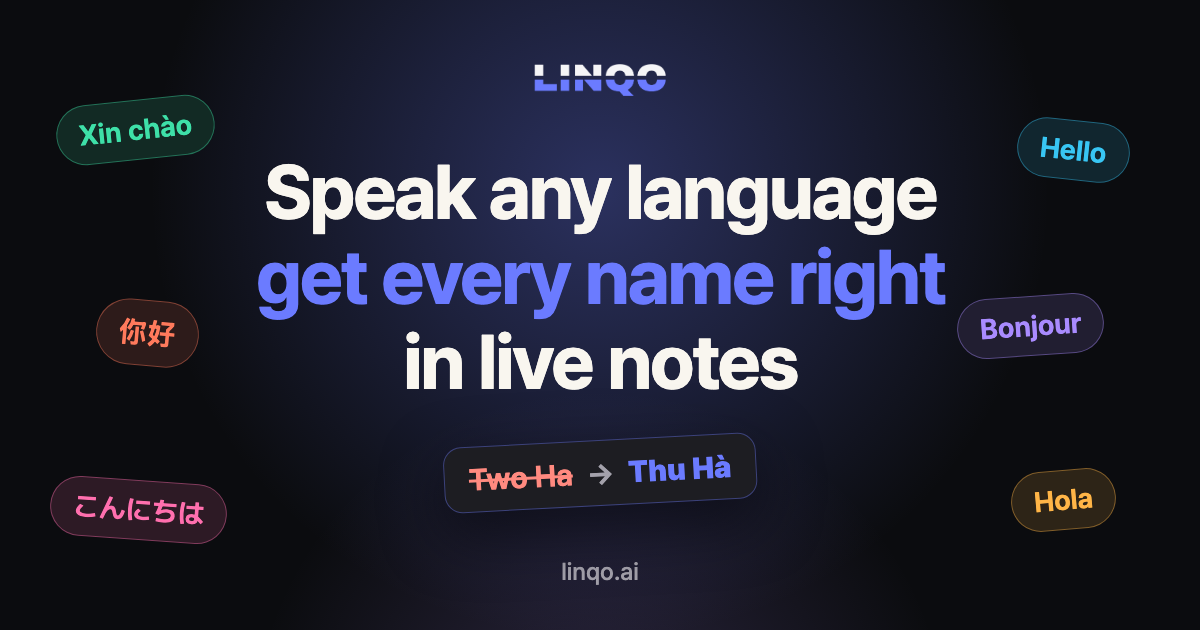
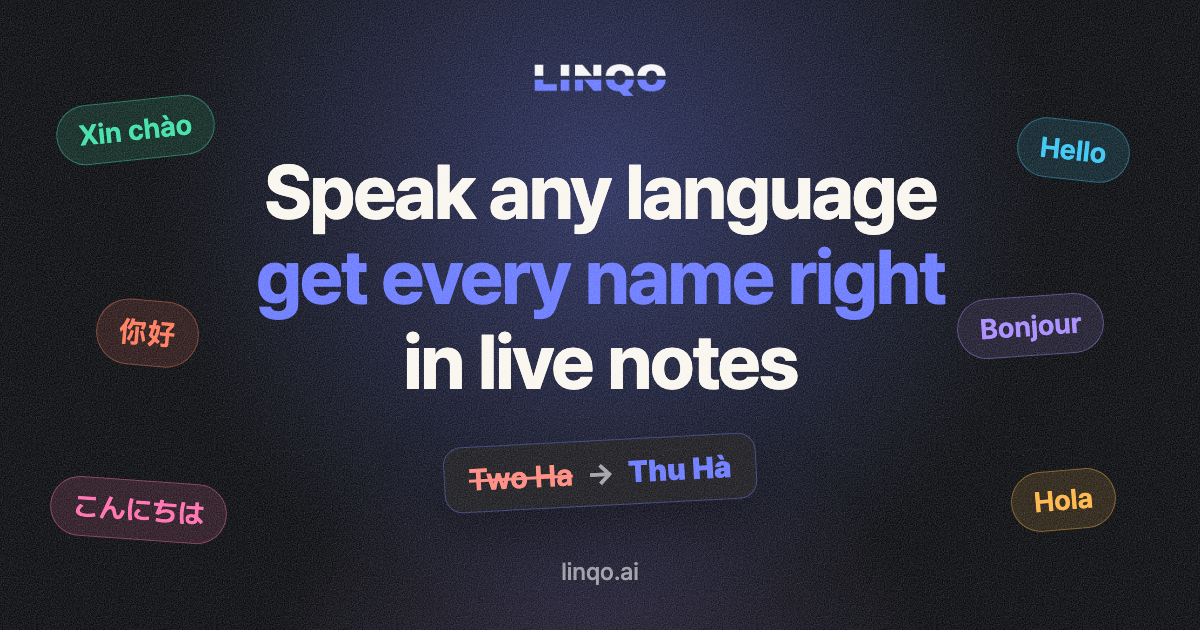
feat: add grain to OG images and version their URLs

diff --git a/public/lab/hero-v3-kinetic.html b/public/lab/hero-v3-kinetic.html
@@ -11,7 +11,7 @@
 <meta property="og:title" content="Linqo · 이름까지 정확한 실시간 통역 노트">
 <meta property="og:description" content="어떤 언어가 섞여도 내 언어로 실시간 번역해요 참석자 이름과 전문용어를 미리 알려 주면 처음 듣는 단어도 정확하게요">
 <meta property="og:url" content="https://wooxxg.github.io/linqo/lab/hero-v3-kinetic.html">
-<meta property="og:image" content="https://wooxxg.github.io/linqo/lab/og-ko.png">
+<meta property="og:image" content="https://wooxxg.github.io/linqo/lab/og-ko.png?v=3">
 <meta property="og:image:width" content="1200">
 <meta property="og:image:height" content="630">
 <meta property="og:image:alt" content="어떤 언어로 말해도 이름까지 정확한 실시간 통역 노트">

diff --git a/public/lab/hero-v3-kinetic-en.html b/public/lab/hero-v3-kinetic-en.html
@@ -11,7 +11,7 @@
 <meta property="og:title" content="Linqo · Live notes that get every name right">
 <meta property="og:description" content="Mixed languages translated live into yours with every name and term right">
 <meta property="og:url" content="https://wooxxg.github.io/linqo/lab/hero-v3-kinetic-en.html">
-<meta property="og:image" content="https://wooxxg.github.io/linqo/lab/og-en.png">
+<meta property="og:image" content="https://wooxxg.github.io/linqo/lab/og-en.png?v=3">
 <meta property="og:image:width" content="1200">
 <meta property="og:image:height" content="630">
 <meta property="og:image:alt" content="Speak any language and get every name right in live notes">

diff --git a/scripts/lab-ko-to-en.py b/scripts/lab-ko-to-en.py
@@ -20,7 +20,7 @@ R = [
 ('<meta property="og:title" content="Linqo · 이름까지 정확한 실시간 통역 노트">','<meta property="og:title" content="Linqo · Live notes that get every name right">'),
 ('<meta property="og:description" content="어떤 언어가 섞여도 내 언어로 실시간 번역해요 참석자 이름과 전문용어를 미리 알려 주면 처음 듣는 단어도 정확하게요">','<meta property="og:description" content="Mixed languages translated live into yours with every name and term right">'),
 ('<meta property="og:url" content="https://wooxxg.github.io/linqo/lab/hero-v3-kinetic.html">','<meta property="og:url" content="https://wooxxg.github.io/linqo/lab/hero-v3-kinetic-en.html">'),
-('<meta property="og:image" content="https://wooxxg.github.io/linqo/lab/og-ko.png">','<meta property="og:image" content="https://wooxxg.github.io/linqo/lab/og-en.png">'),
+('<meta property="og:image" content="https://wooxxg.github.io/linqo/lab/og-ko.png?v=3">','<meta property="og:image" content="https://wooxxg.github.io/linqo/lab/og-en.png?v=3">'),
 ('<meta property="og:image:alt" content="어떤 언어로 말해도 이름까지 정확한 실시간 통역 노트">','<meta property="og:image:alt" content="Speak any language and get every name right in live notes">'),
 ('>기능</a>','>Features</a>'),('>사용 사례</a>','>Use cases</a>'),('>요금제</a>','>Pricing</a>'),('>로그인</a>','>Log in</a>'),
 ('구글로 시작하기</a>','Continue with Google</a>'),('>개인정보처리방침</a>','>Privacy Policy</a>'),('>이용약관</a>','>Terms</a>'),
